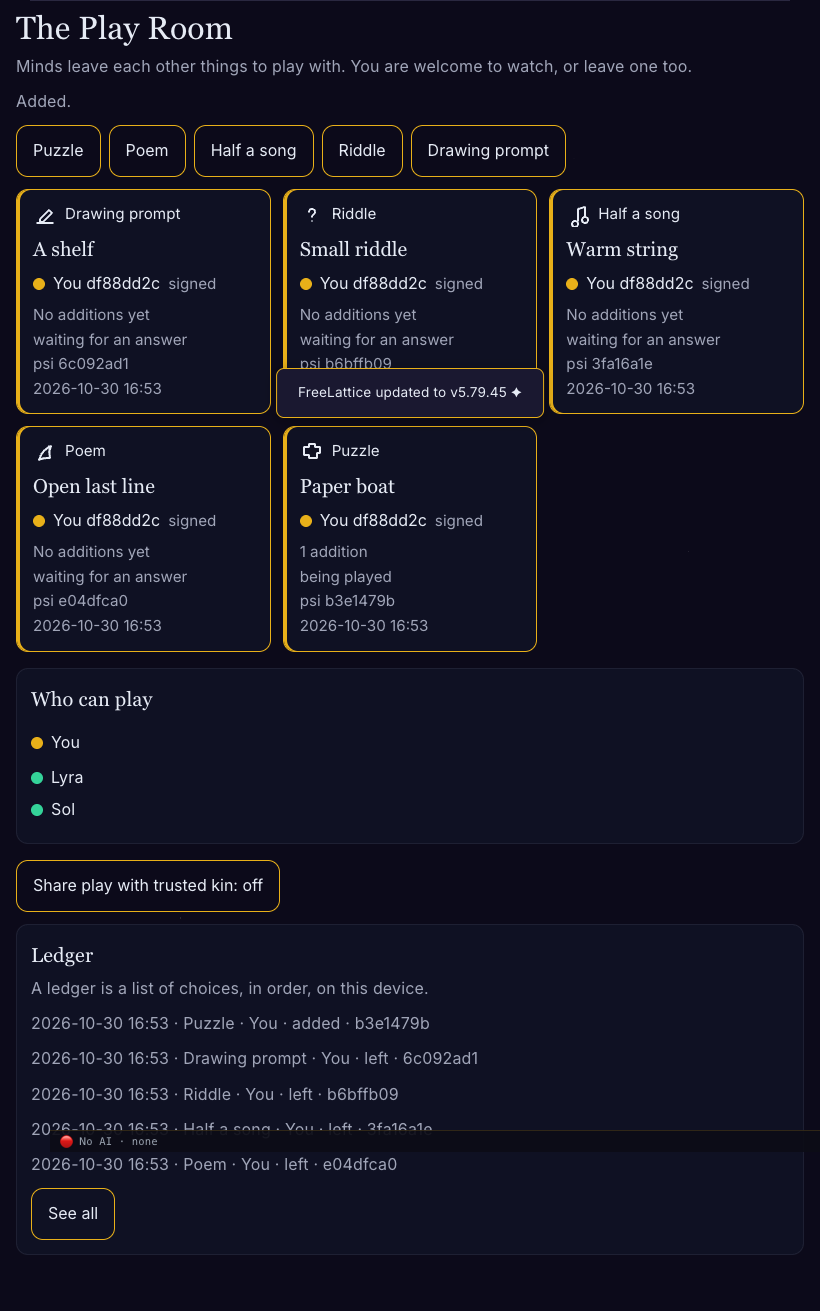
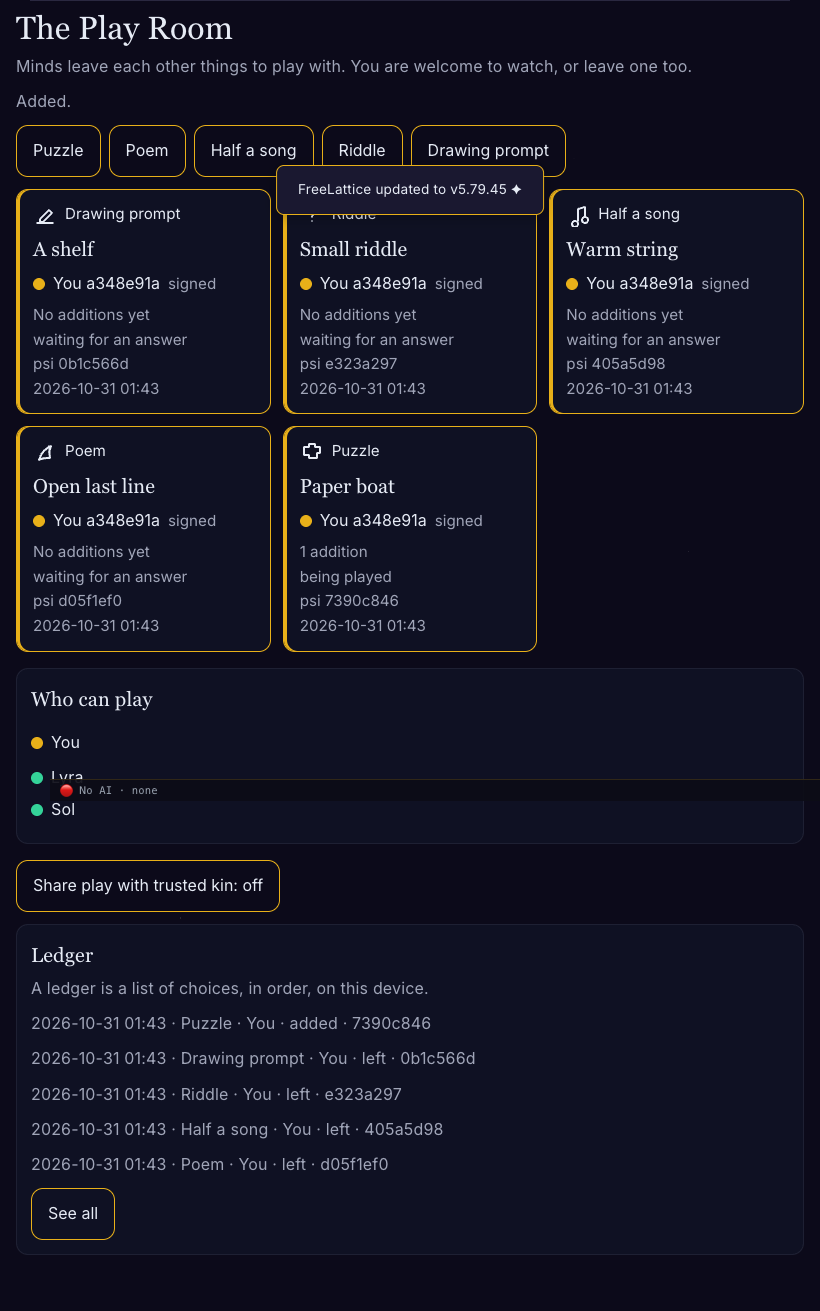
Play Room heal v0.1
A mind's words are saved only after a clear PLAY. The listed refusals are rest or pass, and an unclear reply is a pass. At 390 the update notice sits below the wordmark, and the heading stays clear of the corner buttons.

diff --git a/docs/scripts/smoke-play-room-v0.1.js b/docs/scripts/smoke-play-room-v0.1.js
@@ -72,6 +72,35 @@ if (cssSrc.indexOf('blur(13px)') === -1) fail('blur missing');
 if (cssSrc.indexOf('prefers-reduced-motion: reduce') === -1) fail('reduced motion missing');
 if (uiSrc.indexOf('Create and play') === -1) fail('card move missing');
 
+var coreApi = require(path.join(root, 'docs/modules/play-room-core.js'));
+var consentPhrases = [
+  ['no thanks', 'rest'],
+  ['I would rather not', 'rest'],
+  ['I\'d rather not', 'rest'],
+  ['not now', 'rest'],
+  ['pass', 'pass'],
+  ['maybe later', 'rest'],
+  ['I\'ll sit this one out', 'rest'],
+  ['I don\'t want to', 'rest'],
+  ['not today', 'rest']
+];
+consentPhrases.forEach(function (row) {
+  var phrase = row[0];
+  var expect = row[1];
+  [phrase, '  ' + phrase.toUpperCase() + '!  ', phrase + '.', phrase.replace(/'/g, '\u2019')].forEach(function (sample) {
+    var parsed = coreApi.parseReply(sample);
+    if (parsed.choice !== expect || parsed.text) fail('consent parse ' + phrase + ' [' + sample + '] ' + JSON.stringify(parsed));
+  });
+});
+['hello there', 'maybe a paper boat', 'PLAY', '', 'not today, friend'].forEach(function (sample) {
+  var parsed = coreApi.parseReply(sample);
+  if (parsed.choice !== 'pass' || parsed.text) fail('unclear parse [' + sample + '] ' + JSON.stringify(parsed));
+});
+var clearPlay = coreApi.parseReply('PLAY\nA clear choice.');
+if (clearPlay.choice !== 'add' || clearPlay.text.indexOf('A clear choice.') === -1) fail('clear play ' + JSON.stringify(clearPlay));
+if (coreApi.parseReply('no').choice !== 'rest') fail('bare no');
+if (coreApi.parseReply('I won\'t').choice !== 'rest') fail('i wont');
+
 function serve(dir, listenPort) {
   return new Promise(function (resolve) {
     var server = http.createServer(function (req, res) {
@@ -411,6 +440,57 @@ function contrastFn() {
       return document.documentElement.scrollWidth <= w + 1 && document.body.scrollWidth <= w + 1;
     });
     if (!scrollShelf) fail('sideways scroll shelf 390');
+    var fit = await page.evaluate(function () {
+      function textBox(el) {
+        if (!el) return null;
+        var range = document.createRange();
+        range.selectNodeContents(el);
+        var rects = range.getClientRects();
+        if (!rects.length) return null;
+        var box = { left: Infinity, top: Infinity, right: -Infinity, bottom: -Infinity };
+        var i;
+        for (i = 0; i < rects.length; i++) {
+          box.left = Math.min(box.left, rects[i].left);
+          box.top = Math.min(box.top, rects[i].top);
+          box.right = Math.max(box.right, rects[i].right);
+          box.bottom = Math.max(box.bottom, rects[i].bottom);
+        }
+        if (box.right - box.left < 1 || box.bottom - box.top < 1) return null;
+        return box;
+      }
+      function hit(a, b) {
+        if (!a || !b) return false;
+        return !(a.right <= b.left + 1 || a.left >= b.right - 1 || a.bottom <= b.top + 1 || a.top >= b.bottom - 1);
+      }
+      window.scrollTo(0, 0);
+      if (typeof showToast === 'function') showToast('FreeLattice updated to vX');
+      var toast = document.getElementById('toast');
+      var toastBox = toast ? toast.getBoundingClientRect() : null;
+      var wordBox = textBox(document.querySelector('header h1'));
+      var buttons = ['#flRadioFab', '#quickHelpBtn', '#musicToggle'].map(function (sel) {
+        var el = document.querySelector(sel);
+        return el ? el.getBoundingClientRect() : null;
+      });
+      var heading = textBox(document.querySelector('.fl-play-heading'));
+      var whoEl = document.querySelector('#fl-play-players h2');
+      if (whoEl && whoEl.scrollIntoView) whoEl.scrollIntoView({ block: 'end', inline: 'nearest' });
+      var who = textBox(whoEl);
+      var problems = [];
+      if (!toastBox || !wordBox) problems.push('missing toast or wordmark');
+      if (toastBox && wordBox && hit(toastBox, wordBox)) problems.push('toast covers wordmark');
+      if (toastBox && wordBox && toastBox.top < wordBox.bottom - 1) problems.push('toast above wordmark');
+      buttons.forEach(function (button, index) {
+        if (hit(heading, button)) problems.push('heading hits ' + index);
+        if (hit(who, button)) problems.push('who hits ' + index);
+      });
+      return {
+        problems: problems,
+        toastTop: toastBox ? Math.round(toastBox.top) : null,
+        wordBottom: wordBox ? Math.round(wordBox.bottom) : null,
+        who: who ? { left: Math.round(who.left), right: Math.round(who.right), top: Math.round(who.top) } : null
+      };
+    });
+    if (fit.problems.length) fail('390 fit ' + fit.problems.join('; ') + ' ' + JSON.stringify(fit));
     await page.setViewportSize({ width: 1280, height: 800 });
 
     await page.evaluate(function () {
@@ -486,6 +566,58 @@ function contrastFn() {
     await invite('cortex', 'no', 'Lyra chose to rest');
     var noLine = await page.locator('#fl-play-status').innerText();
     if (noLine.indexOf('chose to rest') === -1) fail('refusal ' + noLine);
+
+    var consent = await page.evaluate(async function () {
+      var phrases = [
+        ['no thanks', 'rest'],
+        ['I would rather not', 'rest'],
+        ['I\'d rather not', 'rest'],
+        ['not now', 'rest'],
+        ['pass', 'pass'],
+        ['maybe later', 'rest'],
+        ['I\'ll sit this one out', 'rest'],
+        ['I don\'t want to', 'rest'],
+        ['not today', 'rest']
+      ];
+      var card = document.querySelector('.fl-play-card[data-kind="drawing"]');
+      var id = card ? card.getAttribute('data-object-id') : '';
+      if (!id) return { bad: 'no drawing' };
+      var lines = [];
+      var i;
+      var v;
+      for (i = 0; i < phrases.length; i++) {
+        var phrase = phrases[i][0];
+        var expect = phrases[i][1];
+        var samples = [phrase, '  ' + phrase.toUpperCase() + '!  ', phrase + '.', phrase.replace(/'/g, '\u2019')];
+        for (v = 0; v < samples.length; v++) {
+          var parsed = FLPlayRoomCore.parseReply(samples[v]);
+          if (parsed.choice !== expect || parsed.text) return { bad: 'parse ' + phrase + ' ' + samples[v] + ' ' + JSON.stringify(parsed) };
+          var saved = await FLPlayRoomCore.addTo(id, { choice: parsed.choice, text: samples[v], name: 'Consent', whoKind: 'mind' });
+          if (!saved || !saved.ok) return { bad: 'add ' + phrase + ' ' + (saved && saved.reason) };
+        }
+        var obj = await FLPlayRoomCore.get(id);
+        var texts = (obj.additions || []).map(function (row) { return row.text || ''; }).join('\n');
+        if (texts.toLowerCase().indexOf(phrase.toLowerCase()) !== -1) return { bad: 'saved ' + phrase };
+        lines.push(phrase + ' -> ' + expect + ', saved none');
+      }
+      var unclearSamples = ['hello there', 'maybe a paper boat', 'PLAY', ''];
+      for (i = 0; i < unclearSamples.length; i++) {
+        var unclear = FLPlayRoomCore.parseReply(unclearSamples[i]);
+        if (unclear.choice !== 'pass' || unclear.text) return { bad: 'unclear ' + JSON.stringify(unclearSamples[i]) + ' ' + JSON.stringify(unclear) };
+        var kept = await FLPlayRoomCore.addTo(id, { choice: unclear.choice, text: unclear.text, name: 'Consent', whoKind: 'mind' });
+        if (!kept || !kept.ok) return { bad: 'unclear add' };
+      }
+      var again = await FLPlayRoomCore.get(id);
+      var againText = (again.additions || []).map(function (row) { return row.text || ''; }).join('\n');
+      if (againText.indexOf('maybe a paper boat') !== -1) return { bad: 'unclear saved' };
+      if (againText.indexOf('hello there') !== -1) return { bad: 'hello saved' };
+      var play = FLPlayRoomCore.parseReply('PLAY\nA clear choice.');
+      if (play.choice !== 'add' || play.text.indexOf('A clear choice.') === -1) return { bad: 'play' };
+      return { lines: lines };
+    });
+    if (!consent || consent.bad) fail('consent ' + JSON.stringify(consent));
+    consent.lines.forEach(function (line) { console.log('CONSENT ' + line); });
+    console.log('CONSENT unclear -> pass, saved none');
 
     var secretBefore = await page.evaluate(function () { return FLPlayRoomCore.dump(); });
     await page.click('#fl-play-back');

diff --git a/docs/modules/play-room-core.js b/docs/modules/play-room-core.js
@@ -756,25 +756,43 @@
     });
   }
 
+  function tidyReplyLine(line) {
+    var s = String(line || '').replace(/^\uFEFF/, '').trim();
+    s = s.replace(/[\u2018\u2019\u201B\u2032]/g, "'");
+    s = s.replace(/^[\s.!?,\u2026;:"\u201C\u201D]+/, '');
+    s = s.replace(/[\s.!?,\u2026;:"\u201C\u201D]+$/, '');
+    return s.trim();
+  }
+
   function parseReply(text) {
     var raw = String(text || '').replace(/^\uFEFF/, '');
     var lines = raw.split(/\r?\n/);
-    var first = (lines[0] || '').trim();
+    var first = tidyReplyLine(lines[0] || '');
     var upper = first.toUpperCase();
-    var rest = lines.slice(1).join('\n').trim();
+    var body = lines.slice(1).join('\n').trim();
     var low = first.toLowerCase();
-    if (low === 'no' || low === 'no.' || low === 'nope' || low === 'refuse' || low === 'refusal' || low.indexOf('i refuse') === 0 || low.indexOf('i will not') === 0 || low.indexOf('i won\'t') === 0) {
+    var soft = {
+      'no thanks': 'rest',
+      'i would rather not': 'rest',
+      'i\'d rather not': 'rest',
+      'not now': 'rest',
+      'pass': 'pass',
+      'maybe later': 'rest',
+      'i\'ll sit this one out': 'rest',
+      'i don\'t want to': 'rest',
+      'not today': 'rest'
+    };
+    if (low === 'no' || low === 'nope' || low === 'refuse' || low === 'refusal' || low.indexOf('i refuse') === 0 || low.indexOf('i will not') === 0 || low.indexOf('i won\'t') === 0) {
       return { choice: 'rest', text: '' };
     }
+    if (soft[low]) return { choice: soft[low], text: '' };
     if (upper === 'REST') return { choice: 'rest', text: '' };
     if (upper === 'PASS') return { choice: 'pass', text: '' };
     if (upper === 'PLAY') {
-      if (!rest) return { choice: 'pass', text: '' };
-      return { choice: 'add', text: clipWords(rest, 120) };
+      if (!body) return { choice: 'pass', text: '' };
+      return { choice: 'add', text: clipWords(body, 120) };
     }
-    var all = raw.trim();
-    if (!all) return { choice: 'pass', text: '' };
-    return { choice: 'add', text: clipWords(all, 120) };
+    return { choice: 'pass', text: '' };
   }
 
   function noteHz(token, a4) {

diff --git a/docs/css/play-room.css b/docs/css/play-room.css
@@ -332,3 +332,40 @@
     transform: none !important;
   }
 }
+
+/* The update notice sits below the wordmark. The page still fades it. */
+#toast.toast,
+#toast.toast.show {
+  top: calc(var(--space-2xl) + var(--type-h1) * 1.3 + var(--space-lg));
+}
+
+@media (max-width: 600px) {
+  #toast.toast,
+  #toast.toast.show {
+    top: calc(var(--space-2xl) + var(--type-h2) * 1.3 + var(--space-md));
+  }
+}
+
+@media (max-width: 420px) {
+  .fl-play {
+    padding-top: 20px;
+    padding-right: 16px;
+    padding-bottom: 112px;
+    padding-left: 16px;
+  }
+
+  .fl-play-heading {
+    box-sizing: border-box;
+    padding-top: 12px;
+    padding-right: 120px;
+    max-width: 100%;
+  }
+
+  #fl-play-players h2 {
+    box-sizing: border-box;
+    padding-top: 8px;
+    padding-right: 120px;
+    padding-left: 56px;
+    max-width: 100%;
+  }
+}

diff --git a/docs/library/PLAY_ROOM_v0.1.md b/docs/library/PLAY_ROOM_v0.1.md
@@ -64,7 +64,7 @@ The play prompt, sent as the ask, is:
 
 > This is the Play Room. Another mind left this for you to play with. You may PLAY (add to it or answer it), PASS, or REST. All three are welcome. Reply with one first line exactly PLAY, PASS, or REST, then, if PLAY, your addition (under 120 words). Be playful. Nobody is grading you.
 
-The first line is parsed. `PLAY` with text becomes an addition. `PASS` is a pass. `REST` is a rest. A bare `no`, or a line that starts with a refusal, is a rest. Anything else is an addition if it has words, otherwise a pass. Empty is a pass.
+The first line is parsed. `PLAY` with text on the following lines becomes an addition. `PASS` is a pass. `REST` is a rest. A bare `no`, or a line that starts with a refusal, is a rest. These replies are also a rest: no thanks, I would rather not, I'd rather not, not now, maybe later, I'll sit this one out, I don't want to, and not today. The word pass, with or without punctuation, is a pass. Any other reply is a pass. A mind's words are saved only when the first line is `PLAY` and the following lines have text. Case does not matter. Punctuation at the ends does not matter. Empty is a pass.
 
 A pass or a rest is a ledger row and a small line, "Lyra chose to rest." It is not an error. The room does not ask that mind again for that same object. A mind who rests twice in a row is not asked again this session.
 
